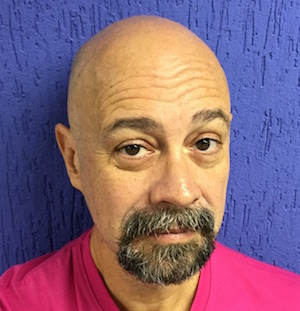
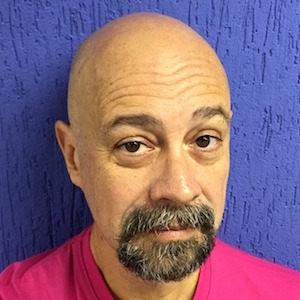
Resized persona4.jpg to the correct height.

diff --git a/css/epicstyles.css b/css/epicstyles.css
@@ -1,0 +1,3 @@
+.personaborder {
+	border: 5px solid dimgray;
+}

diff --git a/epic/index.php b/epic/index.php
@@ -5,7 +5,7 @@
 		<title>jpegery Epic</title>
 		<!--Include Bootstrap Head Tags -->
 		<? include_once ("../lib/head-tags.html"); ?>
-		<link rel="stylesheet" href="../css/epicstyle.css">
+		<link rel="stylesheet" href="../css/epicstyles.css">
 	</head>
 	<body>
 			<div class="container">
@@ -22,25 +22,25 @@
 				<h3>Personas</h3><br>
 				<div class="row">
 					<div class="col-md-6 personaborder">
-						<img src="../images/persona1.jpg" alt="Persona 1" class="img-circle img-responsive"><br>
-						Persona 1
+						<img src="../images/persona1.jpg" alt="Persona 1" class="img-circle img-responsive center-block"><br>
+						<p class="text-center">Persona 1</p>
 					</div>
 					<div class="col-md-6 personaborder">
-						<img src="../images/persona2.jpg" alt="Persona 2" class="img-circle img-responsive"><br>
-						Persona 2
+						<img src="../images/persona2.jpg" alt="Persona 2" class="img-circle img-responsive center-block"><br>
+						<p class="text-center">Persona 2</p>
 					</div>
 				</div><br>
 				<div class="row">
 					<div class="col-md-6 personaborder">
-						<img src="../images/persona3.jpg" alt="Persona 3" class="img-circle img-responsive"><br>
-						Persona 3
+						<img src="../images/persona3.jpg" alt="Persona 3" class="img-circle img-responsive center-block"><br>
+						<p class="text-center">Persona 3</p>
 					</div>
 					<div class="col-md-6 personaborder">
-						<img src="../images/persona4.jpg" alt="Persona 4" class="img-circle img-responsive"><br>
-						Persona 4
+						<img src="../images/persona4.jpg" alt="Persona 4" class="img-circle img-responsive center-block"><br>
+						<p class="text-center">Persona 4</p>
 					</div>
 				</div>
-
+<br><br>
 		</div>
 	</body>
 </html>
